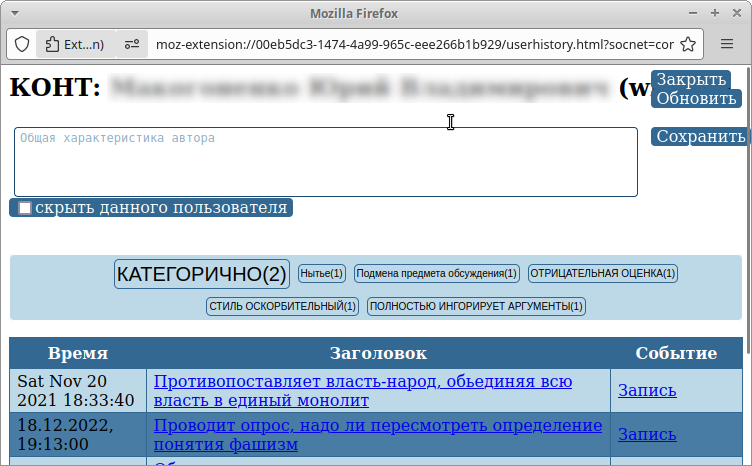
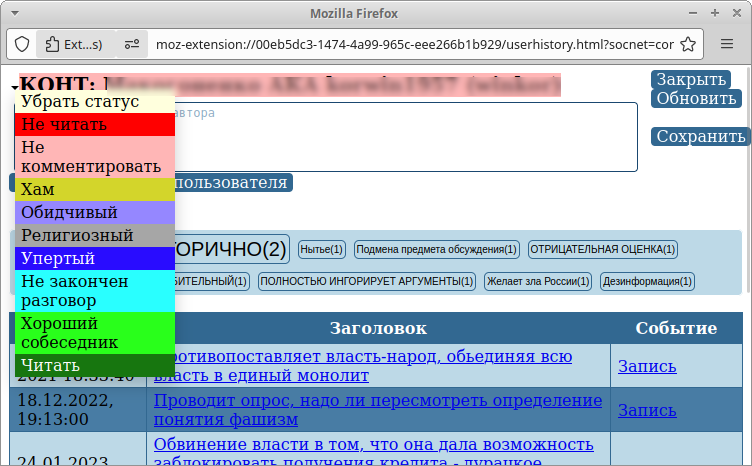
Version 0.4 readme update

diff --git a/README.md b/README.md
@@ -14,12 +14,9 @@ CONTExt reputation manager for CONT.ws social network
 	***Упоминание*** — это просто любая ссылка на пользователя, не содержащая достаточно информации для создания события. Это может быть ссылка на публикацию — с заголовком и данными о времени, но с обрезанным или вовсе отсутствующим текстом, это может быть просто ссылка на пользователя в списке подписчиков или в дополнительных секциях, вроде наиболее популярных материалов. В отличии от потенциального события, в упоминании нет достаточных данных, чтобы его можно было добавить к истории.
 На практике, событиями являются только ***публикации*** и ***комментарии***. Расширение снабжает все потенциальные события меню — треугольничек перед именем пользователя. В публикации меню добавляется к верхней ссылке на пользователя, рядом с заголовком. Все остальные ссылки на пользователей — из шапки, ленты публикаций, боковых блоков и др — являются упоминаниями. Упоминания также могут снабжаться меню — но только, если для данного пользователя уже было сохранено хотя-бы одно событие. В этом случае  количество запомненных событий отображается с помощью цифры в правой части имени пользователя — как в событиях, так и в упоминаниях.
 Некоторые ссылки, например из страницы настроек, считаются служебными и полностью игнорируются.
-Верхний пункт этого меню представляет собой логин пользователя и количество ассоциированных с ним событий (в скобках). Если событий более 0, то этот пункт становится активным, при его выборе открывается досье данного пользователя. В меню, которое добавляется к потенциальным событиям также появляется дополнительно пункт
-добавления/редактирования событий, а также перечень доступных для установки статусов:
+Верхний пункт этого меню представляет собой логин (не псевдоним) пользователя и количество ассоциированных с ним событий (в скобках). При его выборе открывается окно свойств данного пользователя. В меню, которое добавляется к потенциальным событиям также появляется дополнительно пункт добавления/редактирования событий:
 
 ![вид меню потенциального события](https://github.com/dmiandr/context/blob/master/docs/img/menu_plain.png)
-
-Для установки статуса достаточно просто выбрать соответствующий пункт меню.
 
 ### Добавление события
 При выборе пункта меню "Добавить к истории" открывается окно описания события:
@@ -41,7 +38,7 @@ CONTExt reputation manager for CONT.ws social network
 В окне описания события под строкой с уникальным адресом события располагается редактор тегов. Теги — это текстовые метки, характеризующие событие. Программа не навязывает никаких конкретных меток, их необходимо придумывать самому. Рекомендуется использовать короткие текстовые строки, характеризующие событие с какой-то типовой точки зрения, чтобы идентичный тег можно было использовать для характеристики многих событий. Если в качестве тега используется длинная комплексная характеристика — подумайте, нельзя ли разделить ее на два разных тега. Более детальные рекомендации по формулировке тегов будут опубликованы позже.
 Технически, редактор тегов первоначально выглядит как поле с блеклой надписью «Введите тег» после чего в скобках указывается общее количество различных тегов, примененных в базе — в начале это 0:
 
-![событие с нулевым количество тегов](https://github.com/dmiandr/context/blob/master/docs/img/editevent.png)
+![событие с нулевым количеством тегов](https://github.com/dmiandr/context/blob/master/docs/img/editevent.png)
 
 Для добавления тега достаточно вписать его в это поле и нажать Enter — после чего введенный тег превратится в серую плашку, а поле ввода тега сдвинется вправо-вниз. Уже введенные теги снабжаются кнопкой удаления — крестиком в правой части:
 
@@ -51,21 +48,37 @@ CONTExt reputation manager for CONT.ws social network
 
 ### Просмотр досье пользователя
 
-Для каждого автора, которому соответствует хотя-бы одно событие, верхний пункт контекстного меню открывает окно, содержащее собранные сведения о пользователе:
+Для каждого автора верхний пункт контекстного меню открывает окно, содержащее собранные сведения о пользователе:
 
 ![досье](https://github.com/dmiandr/context/blob/master/docs/img/hist_window.png)
 
- В верхней части окна расположены название социальной сети, псевдоним и в скобках — логин автора. Ниже — редактируемое поле, в котором можно разместить детальное описание автора - итог всей истории наблюдений. Под текстовым полем - галочка "скрыть данного пользователя", отметив которую вы уберете комментарии данного пользователя из всех дискуссий - они будут не видны. В правом верхнем углу расположены кнопки "Закрыть", закрывающая все окно, "Обновить" обновляющая список в окне и "Сохранить" — кнопка, сохраняющая отредактированное текстовое описание автора и статус видимости комментариев пользователя. (Обратите внимание, без нажатия «Сохранить» эти данные не будут сохранены). 
+В верхней части окна расположены название социальной сети, псевдоним и в скобках — логин автора. Слева от этой строки находится меню, позволяющее назначать статус пользователя (ранее оно было размещено непосредственно на странице блога, но было перенесено сюда, так как логичнее назначать статус на основании каких-то уже сделанных наблюдений над человеком). После изменения статуса, не забудьте нажать кнопку "Сохранить"! 
+
+Ниже расположено редактируемое поле, в котором можно разместить детальное описание автора - итог всей истории наблюдений. Под текстовым полем - галочка "скрыть данного пользователя", отметив которую вы уберете комментарии данного пользователя из всех дискуссий - они будут вам не видны. В правом верхнем углу расположены кнопки "Закрыть", закрывающая все окно, "Обновить" обновляющая список в окне и "Сохранить" — кнопка, сохраняющая отредактированное текстовое описание автора, его статус и видимость комментариев пользователя. (Обратите внимание, без нажатия «Сохранить» эти данные не будут сохранены).
 Ниже расположено облако тегов, соответствующее событиям данного пользователя. При достаточном числе событий, это облако представляет собой «портрет» пользователя.
-Ниже расположена таблица, содержащая список событий. В таблице есть три колонки: Время, Заголовок и Событие. Первая содержит дату и время события. Вторая колонка содержит заголовок события, одновременно являющийся ссылкой, открывающей окно описания события — таким образом уже существующее событие можно отредактировать или удалить. Третья колонка показывает тип события (Комментарий или Запись), которая одновременно является ссылкой на событие, страница открывается в новой вкладке основного окна.
+Еще ниже - таблица, содержащая список событий. В таблице есть три колонки: Время, Заголовок и Событие. Первая содержит дату и время события. Вторая колонка содержит заголовок события, одновременно являющийся ссылкой, открывающей окно описания события — таким образом уже существующее событие можно отредактировать или удалить. Третья колонка показывает тип события (Комментарий или Запись), которая одновременно является ссылкой на событие, страница открывается в новой вкладке основного окна.
 
 ### Параметры расширения
 
 Параметры открываются стандартным способом, через список активных расширений браузера. Страница параметров расширения разделена на две закладки, «Общие» и «Теги». Закладка «Общие» включает в себя функции Экспорта данных в выбранную директорию в формате json, импорта данных из такого файла. Опция «Удалить данные перед импортом новых»  по умолчанию не активна, поэтому загруженные события прибавляются к уже существующим, кроме тех случаев когда уникальные линки событий совпадают.
 
-Ниже расположена статистическая информация о данных в базе — количество событий, количество разных пользователей, текстовых описаний и данные последнего добавленного события (обратите внимания — последнего по времени создания, а не по времени добавления. Программа не запоминает, когда вы внесли событие в базу, только время создания самого события). 
+Ниже расположена статистическая информация о данных в базе — количество событий, количество разных пользователей, текстовых описаний и данные последнего добавленного события (обратите внимание — последнего по времени создания, а не по времени добавления. Программа не запоминает, когда вы внесли событие в базу, только время создания самого события). 
 
-В нижней части страницы настроек расположен полный список всех авторов, которым были назначены события. Первая колонка содержит логин автора, она же является ссылкой, открывающей список событий этого конкретного автора. Вторая колонка - псевдоним автора, раскрашенный в соответствии с назначенным статусом. Последняя - общее количество событий у данного автора. Если автор отмечен как скрытый, то логин автора пишется наклонным шрифтом.
+Далее располагается редактор статусов пользователей, одновременно включающий функцию фильтрации пользователей по назначенному статусу. Редактор состоит из таблицы, каждая строка которой соответствует одному статусу, кроме того сверху добавлена строка для пользователей, которым не назначался статус, а снизу - строка для добавления нового статуса:
+
+![фильтр/редактор статусов](https://github.com/dmiandr/context/blob/master/docs/img/rankseditor.png)
+
+В режиме фильтра используются только "флажки" в первой колонке таблицы. При отметке флажка, пользователи с указанным статусом перечисляются в таблице в нижней части страницы. Можно отметить несколько флажков - тогда пользователи будут объединены в одну таблицу, с сохранением цветовой маркировки.
+В этой таблице, первая колонка содержит логин автора, он же является ссылкой, открывающей список событий этого конкретного автора. Вторая колонка - псевдоним автора, раскрашенный в соответствии с назначенным статусом. Последняя - общее количество событий у данного автора. Если автор отмечен как скрытый, то логин автора пишется наклонным шрифтом.
+
+Для редактирования статуса нажмите на кнопку с "..." в соответствующей строке. Интерфейс перейдет в режим редактирования, названия и описание статуса станут доступны для редактирования. Также можно изменить цвет шрифта и цвет фона, которым отображается данный статус - для этого используются цветные квадратики слева от кнопки редактирования:
+
+![фильтр/редактор статусов в режиме редактирования](https://github.com/dmiandr/context/blob/master/docs/img/rankseditor_editing.png)
+
+На всех не подписанных органах управления имеются всплывающие подсказки. После внесения изменений их можно либо отменить (с помощью кнопки "Отмена", последняя в строке), либо сохранить, повторно нажав на кнопку "...".
+Чтобы добавить новый статус, используйте кнопку "+" в последней строке редактора - в остальном функционал идентичен редактированию.
+Для удаления статуса используется кнопка "Удалить". Эта кнопка активна только если ни один из пользователей в базе не имеет такого статуса, назначенный хоть кому-то статус удалить нельзя. Количество пользователей, имеющих данный статус отображается в третьей колонке редактора.
+Изменить статус пользователя можно из диалога параметров пользователя (не забывайте сохранять сделанное изменение), но после изменения необходимо заново перестроить список статусов. Для этого можно использовать кнопку "Обновить" слева над редактором.
 
 На вкладке «Теги» расположено облако тегов всех событий, имеющихся в базе. В отличии от облака тегов индивидуального пользователя, это облако позволяет осуществлять поиск по базе событий, помеченных любым заданным тегом. Для этого каждый из тегов снабжен флажком. При выборе флажка — в нижней части страницы, под облаком, отображаются все события, помеченные данным тегом. Формат этого отображения следующий — отображается имя пользователя, на темном фоне, после чего подпунктом отображается таблица на светлом фоне со списком связанных с данным пользователем событий. Внешний вид приведен на рисунке:
 
